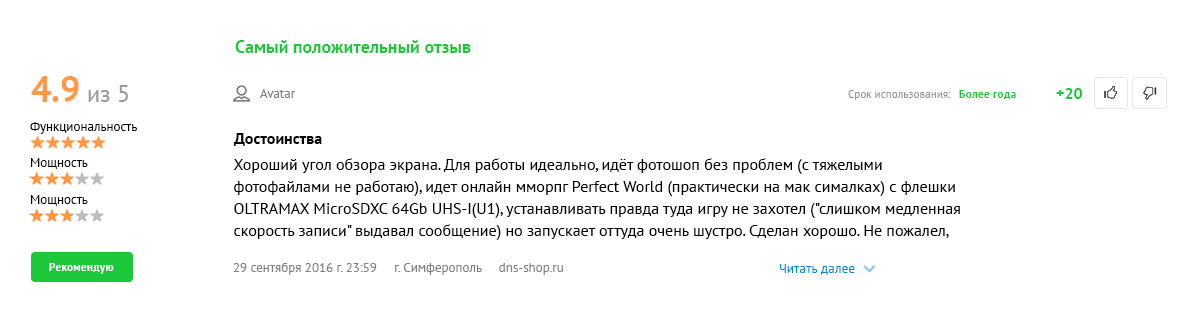
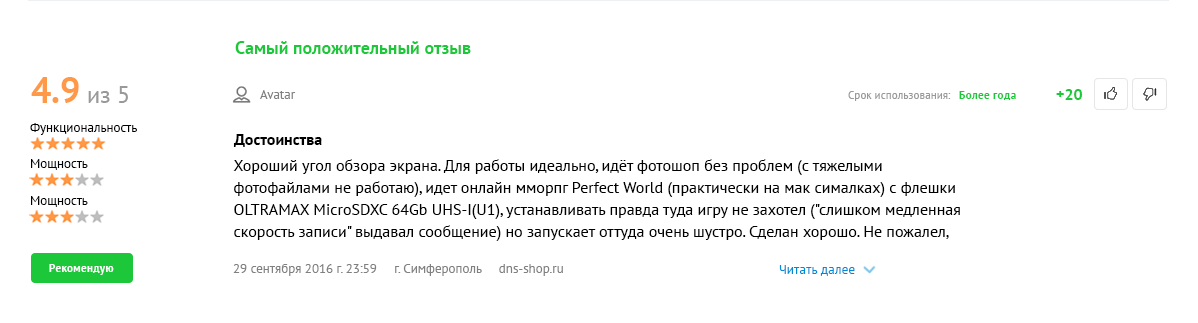
Add files via upload

diff --git a/css/style.css b/css/style.css
@@ -62,7 +62,7 @@
 /*url(../img/not_autorized/positive-review.png) no-repeat;*/
 .content-box .positive-review {
     background: url(../img/not_autorized/positive-review.png) no-repeat;
-    height: 322px;
+    height: 323px;
     position: relative;
 }
 .positive-review-read-more {
